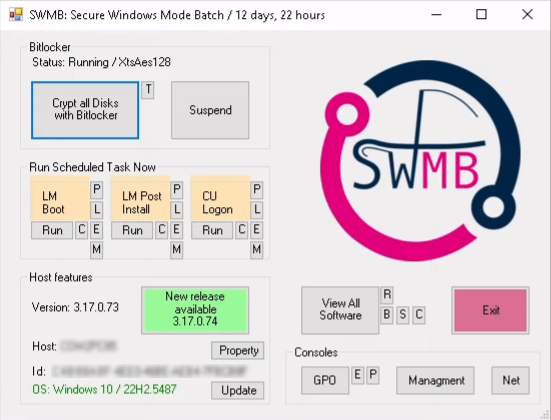
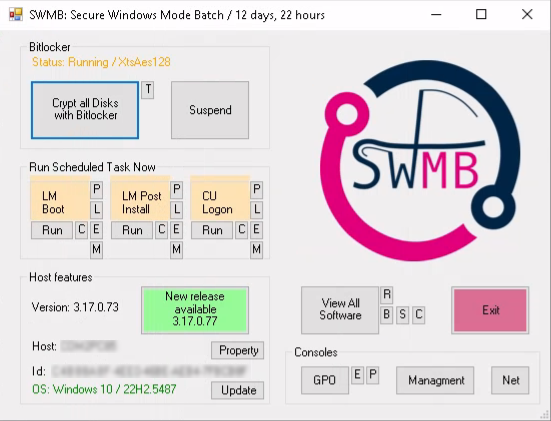
Add color for Bitlocker status on the GUI

diff --git a/NEWS.md b/NEWS.md
@@ -3,22 +3,26 @@
 ## Version 3.18 (in progress)
 
 The `wisemoui.ps1` graphical interface has been updated.
-There's now an `C` (Check), `P` (Print), `L` (Log) and `E` (Edit) and `Run` buttons next to each scheduled task to check the preset file, print current tweaks list, view the last log file (last run), edit the task's preset file and run now the task.
-If the [WinMerge](https://winmerge.org/) software is installed, a `M` button appear near all the task button to help diff, merge and update preset files.
-Many management consoles (TPM, indows Update, System Property, Add/Remove Software, Secpol, GPedit, Network interface and Global Management) have also been added to the interface.
-If the [BleachBit](https://www.bleachbit.org/) software is installed, a `B` button appear near the Software button.
-If the [CCleaner](https://www.ccleaner.com/) software is installed, a `C` button appear near the Software button.
-If the [WinDirStat](https://windirstat.net/) software is installed, a `S` button appear near the Software button.
-If the [Procmon](https://en.wikipedia.org/wiki/Sysinternals) software is installed, a `P` button appear near the GPO button.
+Here's a quick summary:
+
+* The Bitlocker status is now in color (Green, Orange, Red).
+* There's now an `C` (Check), `P` (Print), `L` (Log) and `E` (Edit) and `Run` buttons next to each scheduled task to check the preset file, print current tweaks list, view the last log file (last run), edit the task's preset file and run now the task.
+* If the [WinMerge](https://winmerge.org/) software is installed, a `M` button appear near all the task button to help diff, merge and update preset files.
+* Many management consoles (TPM, indows Update, System Property, Add/Remove Software, Secpol, GPedit, Network interface and Global Management) have also been added to the interface.
+* If the [BleachBit](https://www.bleachbit.org/) software is installed, a `B` button appear near the Software button.
+* If the [CCleaner](https://www.ccleaner.com/) software is installed, a `C` button appear near the Software button.
+* If the [WinDirStat](https://windirstat.net/) software is installed, a `S` button appear near the Software button.
+* If the [Procmon](https://en.wikipedia.org/wiki/Sysinternals) software is installed, a `P` button appear near the GPO button.
 
 Add SHA-1 hash on download package web page.
 
 Add the link to [Win11Debloat](https://github.com/Raphire/Win11Debloat) and to the [JRES 2024 conference in Rennes](https://hal.science/hal-04893850v1) to the [REFERENCES](REFERENCES.md) file.
 
 New presets/rules:
-- 2025/02/17 - `ViewInsecureGuestLogons` - Disable SMB client to use insecure guest logons to an SMB server
-- 2025/02/17 - `EnableSMBClientSigning`/`DisableSMBClientSigning`/`ViewSMBClientSigning` - Require SMB client to sign message
-- 2025/02/17 - `EnableSMBServerSigning`/`DisableSMBServerSigning`/`ViewSMBServerSigning` - Require SMB server to sign message
+
+* 2025/02/17 - `ViewInsecureGuestLogons` - Disable SMB client to use insecure guest logons to an SMB server
+* 2025/02/17 - `EnableSMBClientSigning`/`DisableSMBClientSigning`/`ViewSMBClientSigning` - Require SMB client to sign message
+* 2025/02/17 - `EnableSMBServerSigning`/`DisableSMBServerSigning`/`ViewSMBServerSigning` - Require SMB server to sign message
 * 2025/02/14 - `DisableMSOfficeFeedback_CU`/`EnableMSOfficeFeedback_CU`/`ViewMSOfficeFeedback_CU` - Disable Feedback and Telemetry in MS Office
 * 2025/02/13 - `ViewWebSearch_CU` - Add view tweak
 * 2025/02/13 - `DisableMSOfficeConnectedExperiences_CU`/`EnableMSOfficeConnectedExperiences_CU`/`ViewMSOfficeConnectedExperiences_CU` - Disable Connected Experiences in Microsoft Office
@@ -61,6 +65,7 @@ $Global:SWMB_Custom.Windows11.TargetReleaseVersionInfo = '23H2'
 ```
 
 New presets/rules:
+
 * 2024/09/26 - `DisableWindowsCopilot_CU`/`EnableWindowsCopilot_CU`/`ViewWindowsCopilot_CU` -> Disable Windows Copilot for current user (Windows11)
 * 2024/07/02 - `UninstallVMwarePlayer`/`ViewVMwarePlayer` -> Uninstall VMware Player
 * 2024/06/05 - `DisableEdgeSendBrowsingHistory`/`EnableEdgeSendBrowsingHistory`/`ViewEdgeSendBrowsingHistory` -> Disable sending browsing history to Microsoft
@@ -99,21 +104,25 @@ Most of the tweaks marked with the Windows11 tag are also available on Windows10
 but were not deactivated (or activated) at the time, because they were unknown!
 
 Remove modules (move code to other modules):
+
 * `Modules/SWMB/Resinfo.psm1` - dispatch tweaks in other module
 * `Modules/SWMB/BSI.psm1` - dispatch tweaks in other module
 * `Modules/SWMB/Contrib.psm1` - dispatch tweaks in other module
 
 Remove presets (push preset in one file):
+
 * `CurrentUser-Resinfo.preset` - only one preset!
 * `CurrentUser-UserExperience.preset` - only one preset!
 
 Update default `LocalMachine-All` preset:
+
 * Activate `DisableCortanaAboveLock`, `DisableDisplayWebResults`, `DisableWebSearch`,
   `DisablePrivacyExperience`, `DisableStepsRecorder`, `DisableSendAdditionalData`,
   `DisableSharedInformationSearch`, `EnableSearchOnTaskbar`, `DisableUWPNotifications`,
   `DisableUWPAccountInfo`, `DisableUWPDiagInfo`, `DisableUWPAccessLocation`, `DisableWindowsCopilot`
 
 Update default `CurrentUser-All` preset:
+
 * Activate `DisableWebSearch_CU`, `DisableFeedback_CU`
 
 Two tweaks (`OneDriveSync` and `WindowsStoreAccess`) have been renamed in order to have uniqueness in tweak names,
@@ -121,6 +130,7 @@ whether they start with `Enable/Disable`, `Install/Uninstall`, `Show/Hide`...
 The `check-project` script has been updated to check that this tweak uniqueness property is respected.
 
 New presets/rules:
+
 * 2024/03/05 - `UninstallAnyDesk`/`ViewAnyDesk` -> Uninstall AnyDesk remote desktop application
 * 2024/02/29 - `DisableWindowsStoreAccess` is the new name for old `DisableWindowsStore`. It's the same for `EnableWindowsStoreAccess`
 * 2024/02/29 - `DisableOneDriveSync` is the new name for old `DisableOneDrive`. It's the same for `EnableOneDriveSync`
